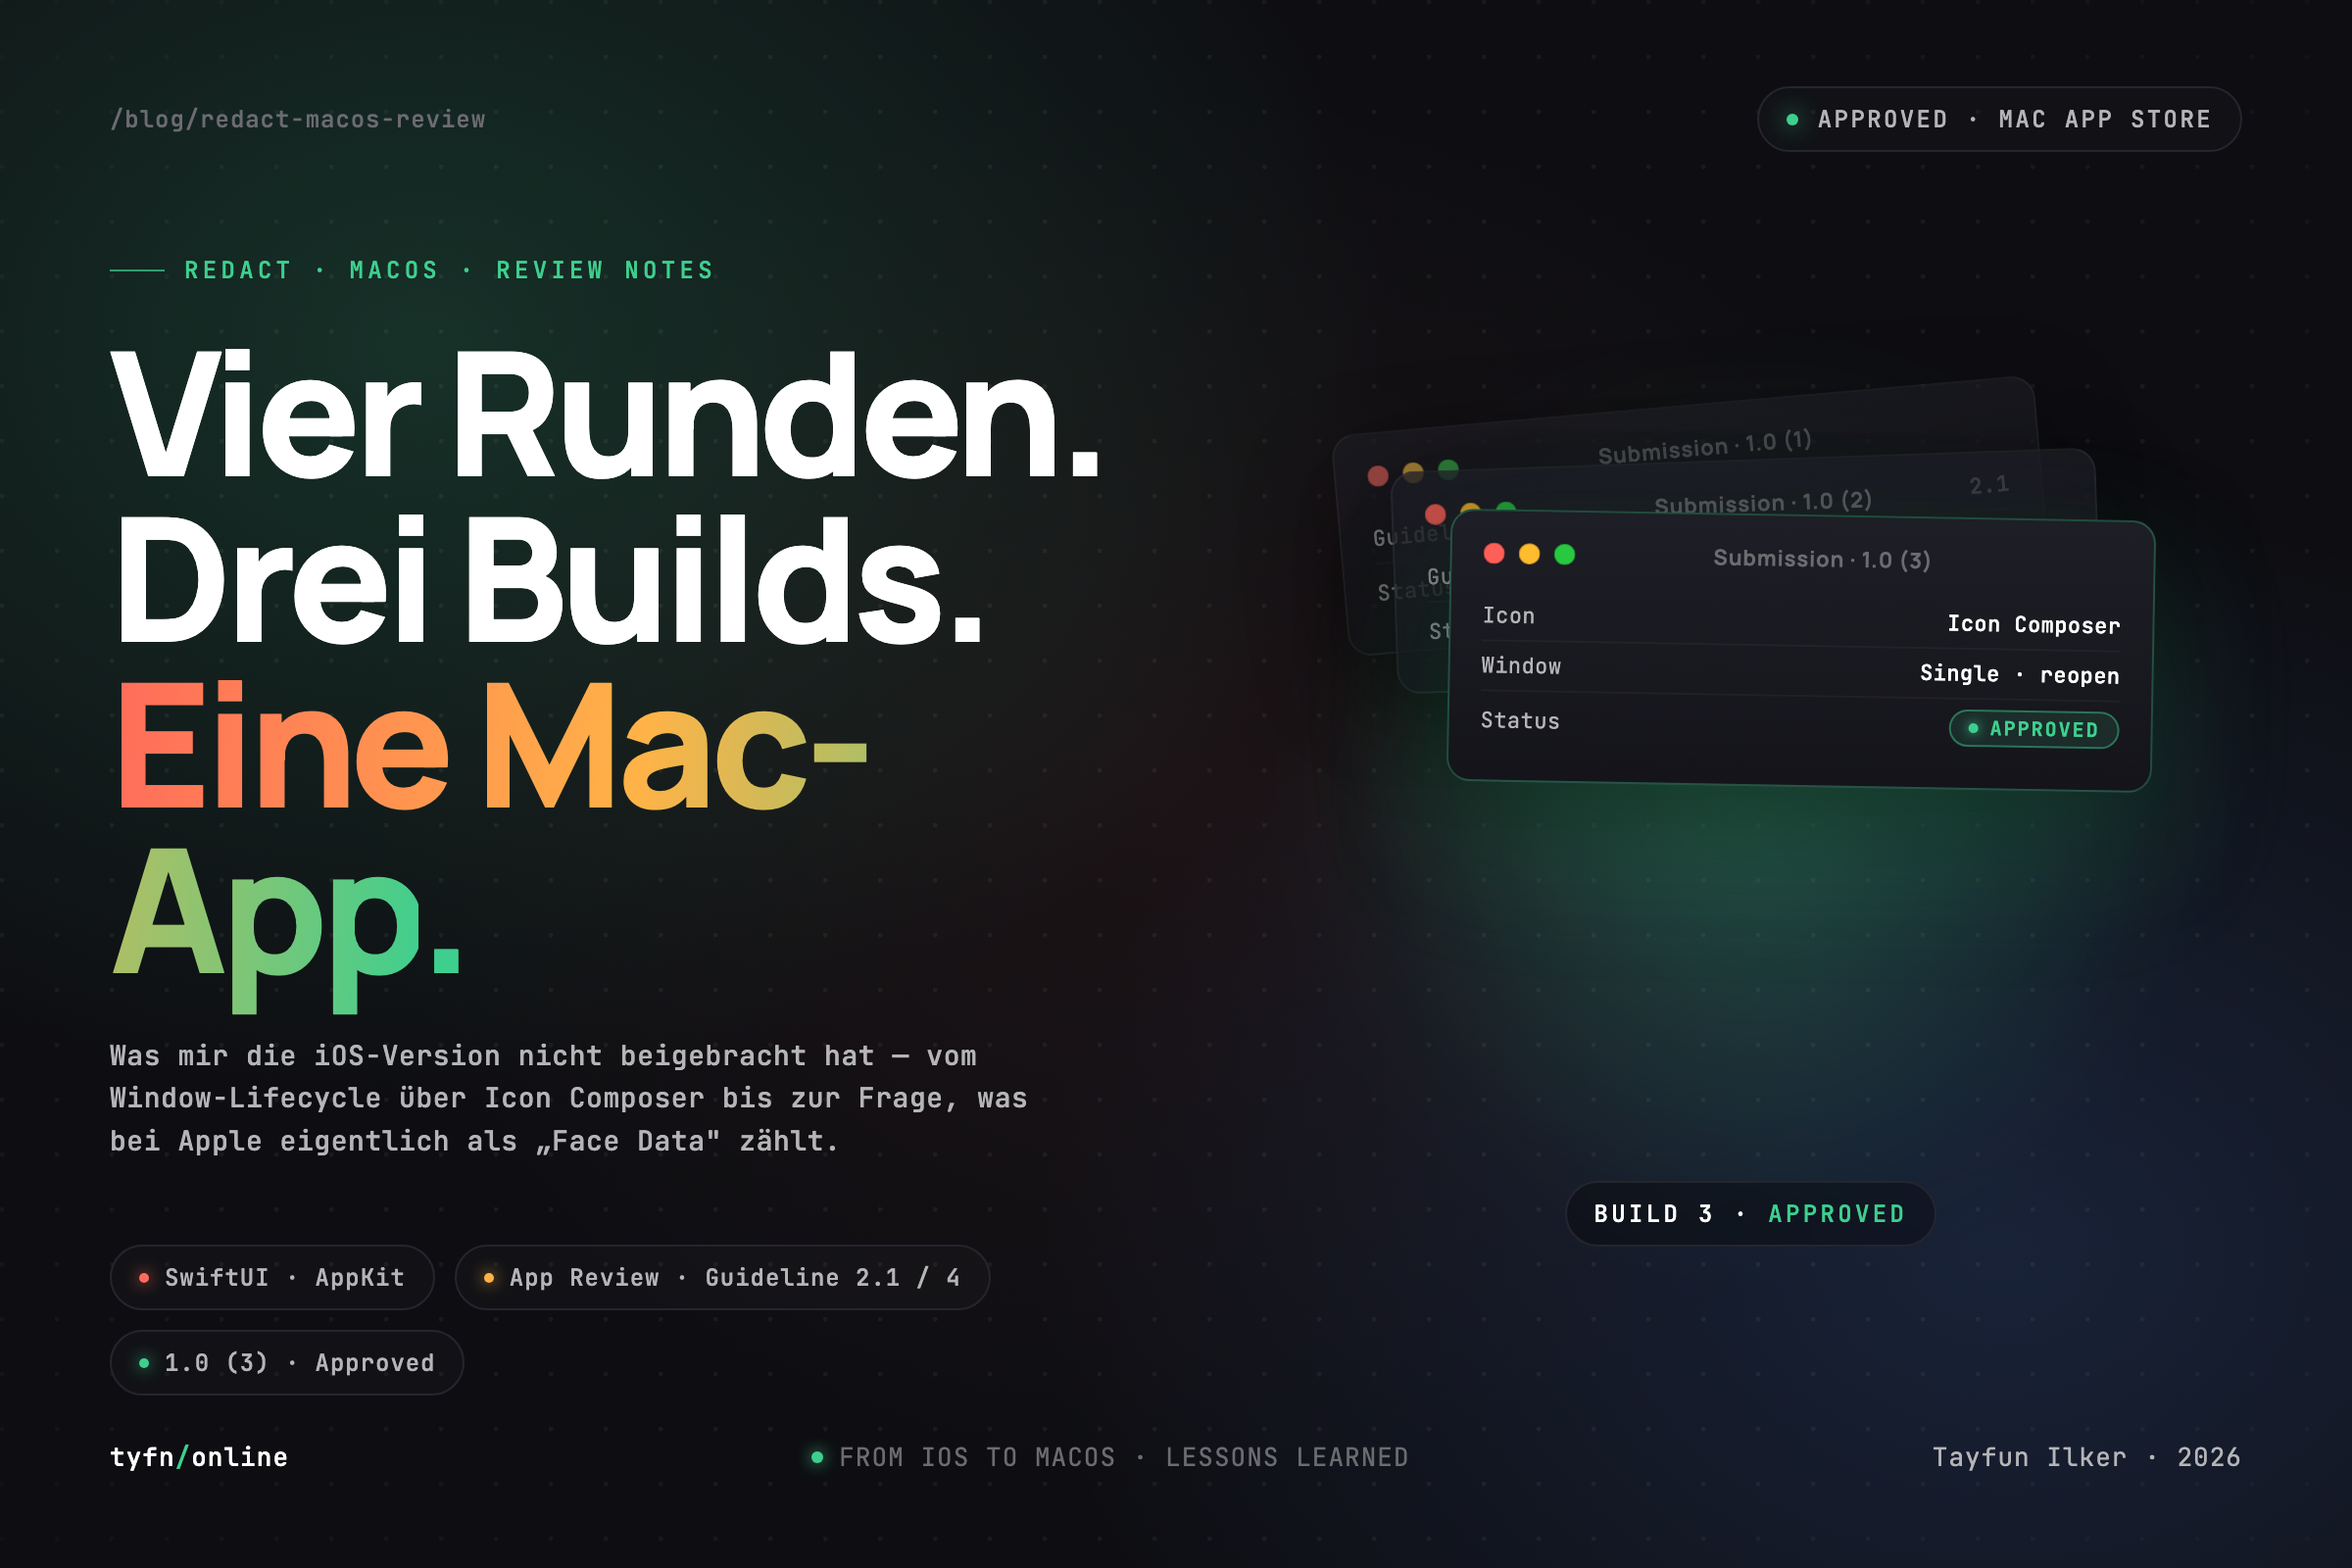
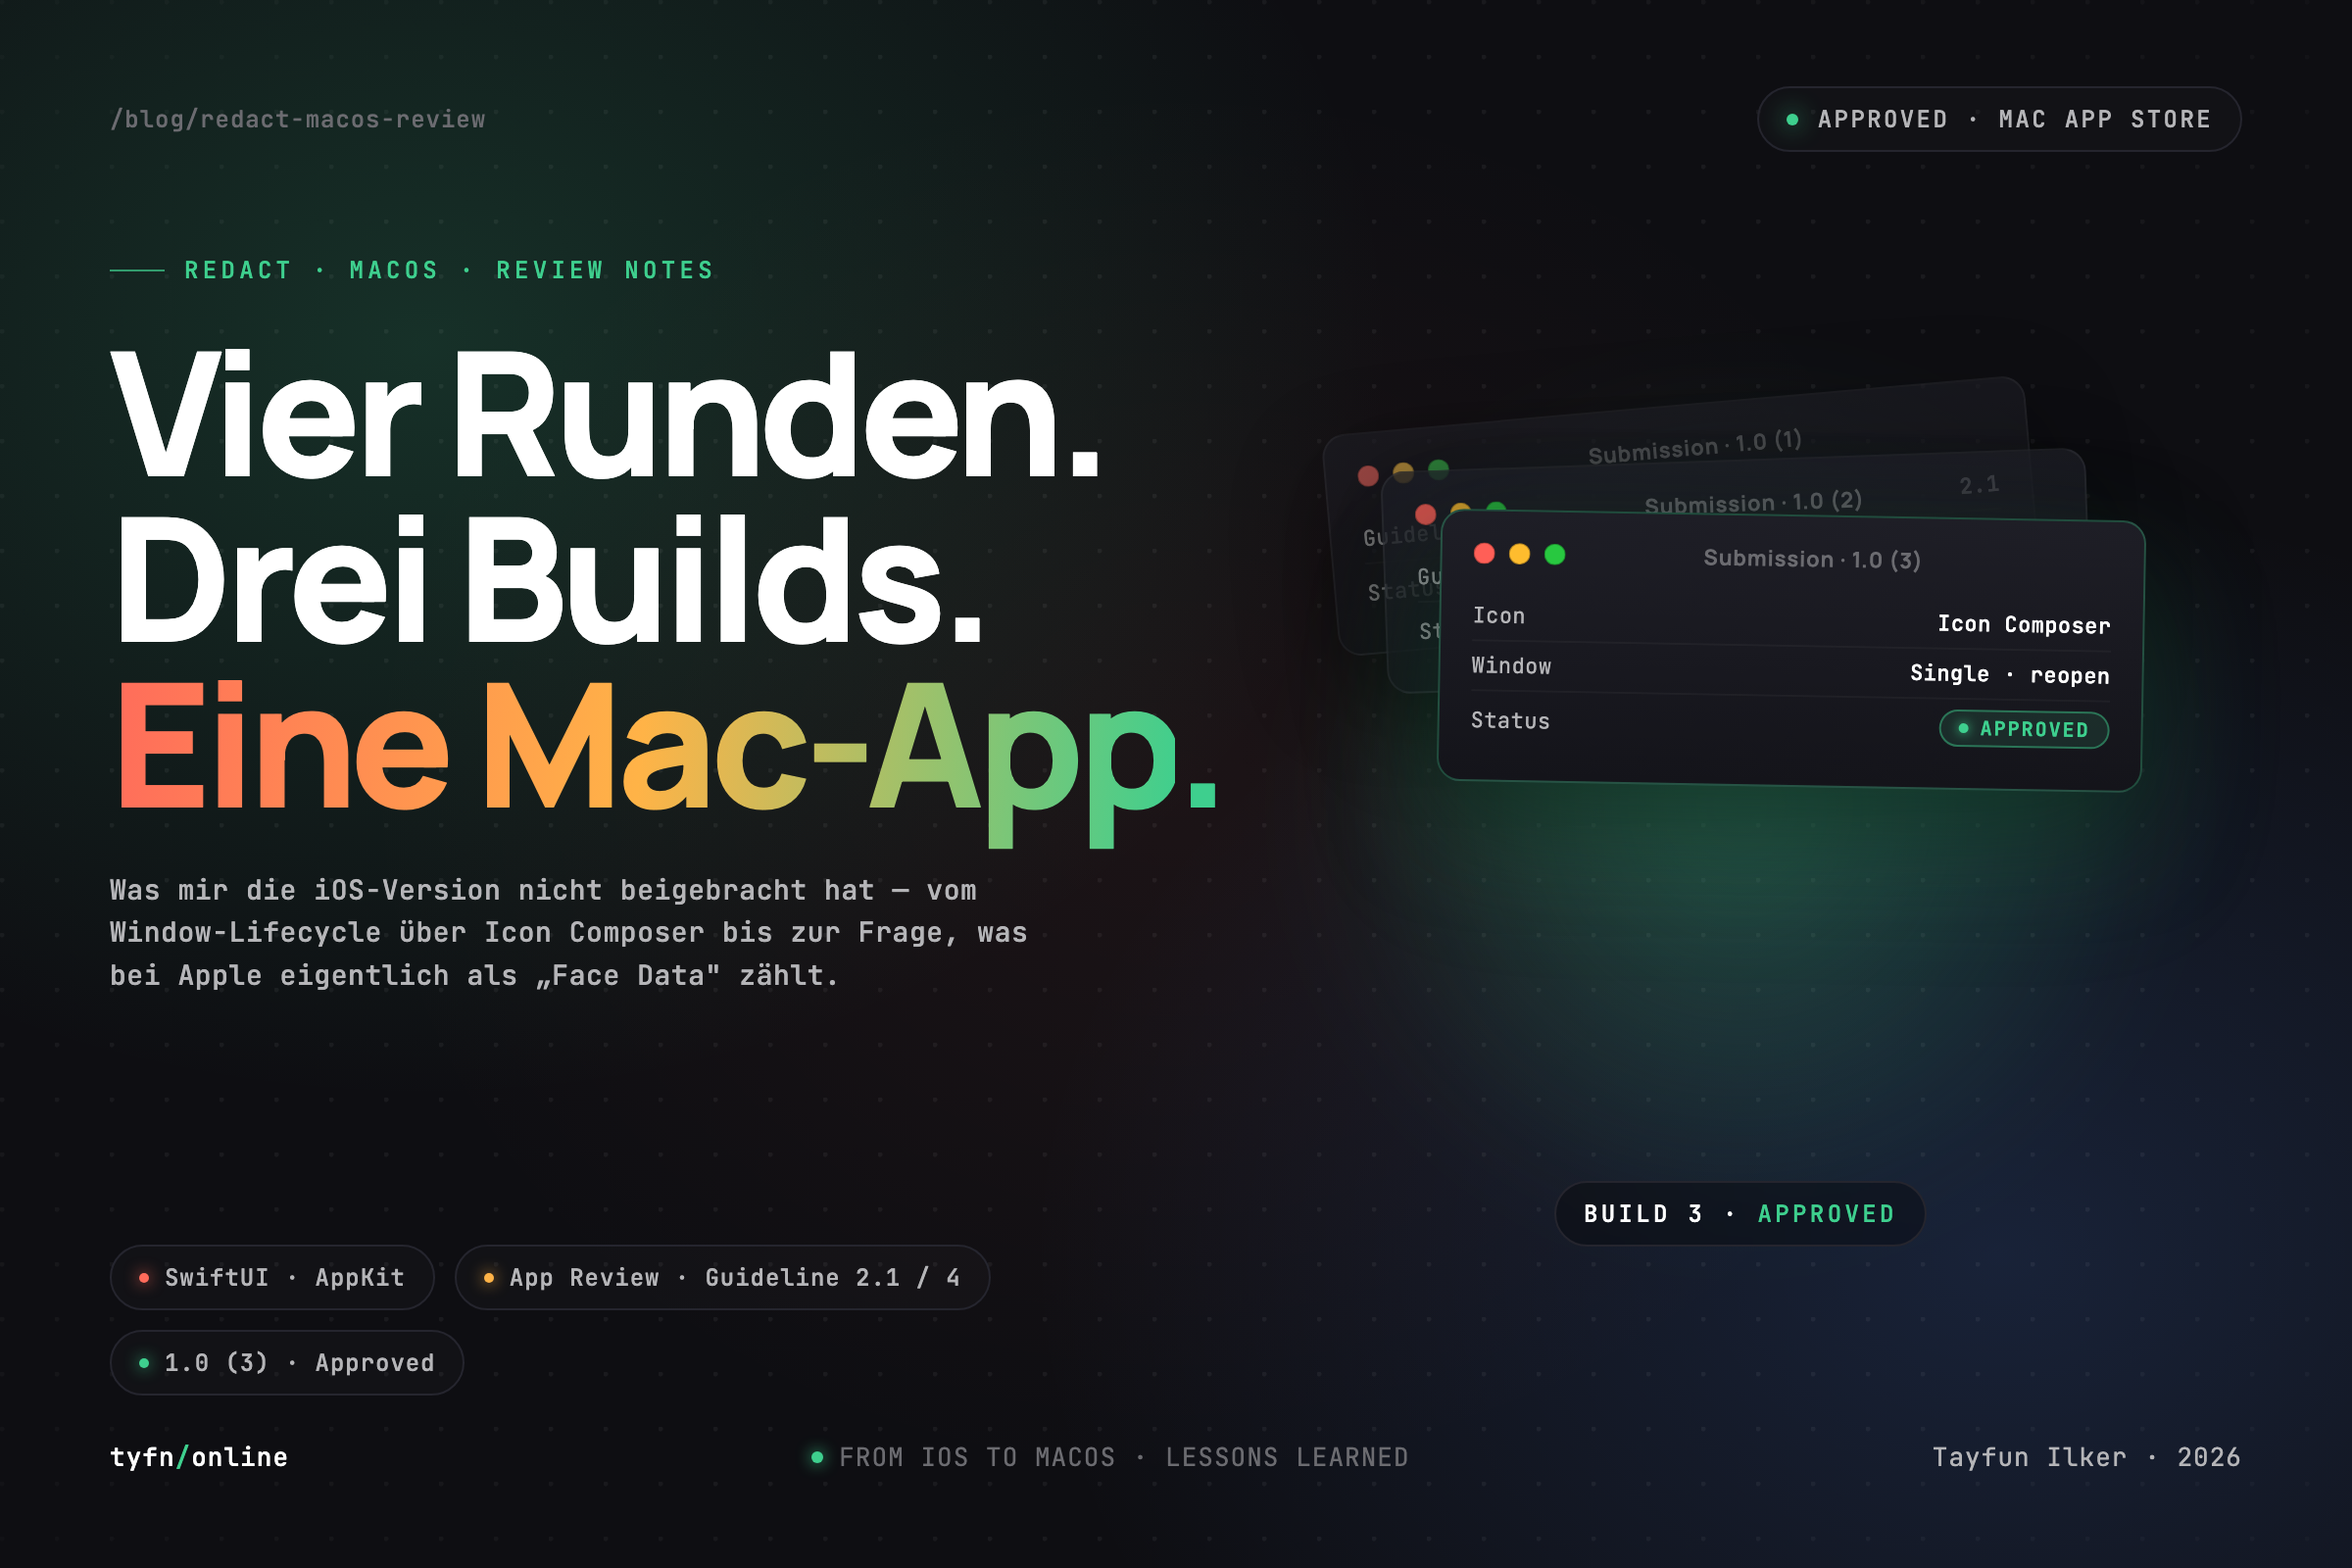
fix(blog): keep "Eine Mac-App." on one line in macOS review hero

diff --git a/design/redact-macos-review-hero.html b/design/redact-macos-review-hero.html
@@ -149,7 +149,7 @@
       letter-spacing: -0.04em;
       color: var(--ink);
     }
-    .headline .row { display: block; }
+    .headline .row { display: block; white-space: nowrap; }
     .headline .accent {
       background: linear-gradient(96deg, var(--accent-a) 0%, var(--accent-b) 50%, var(--signal) 100%);
       -webkit-background-clip: text;
